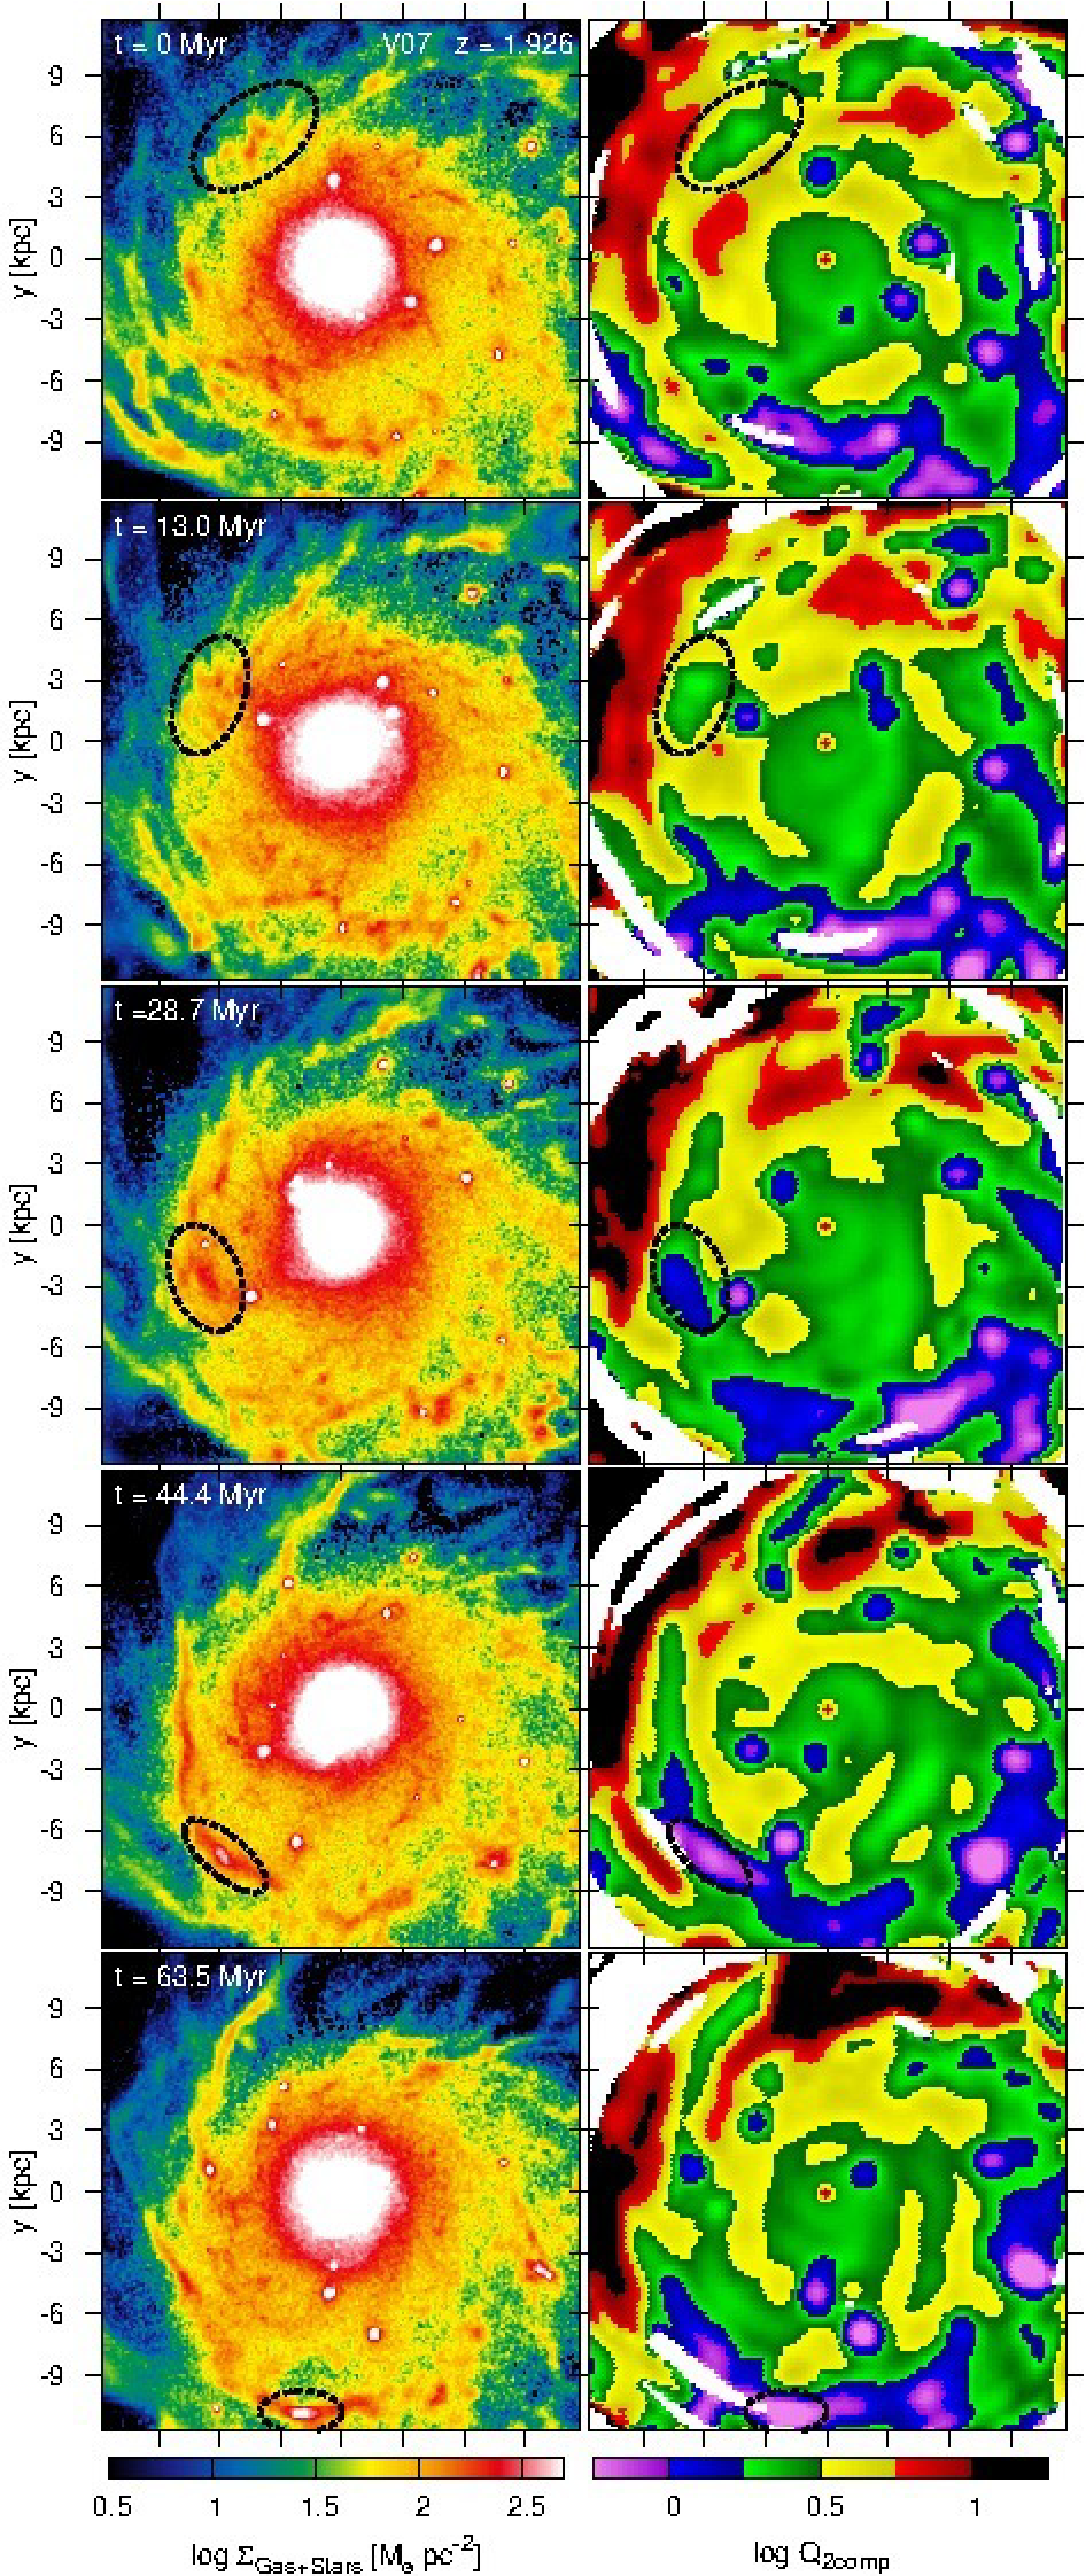
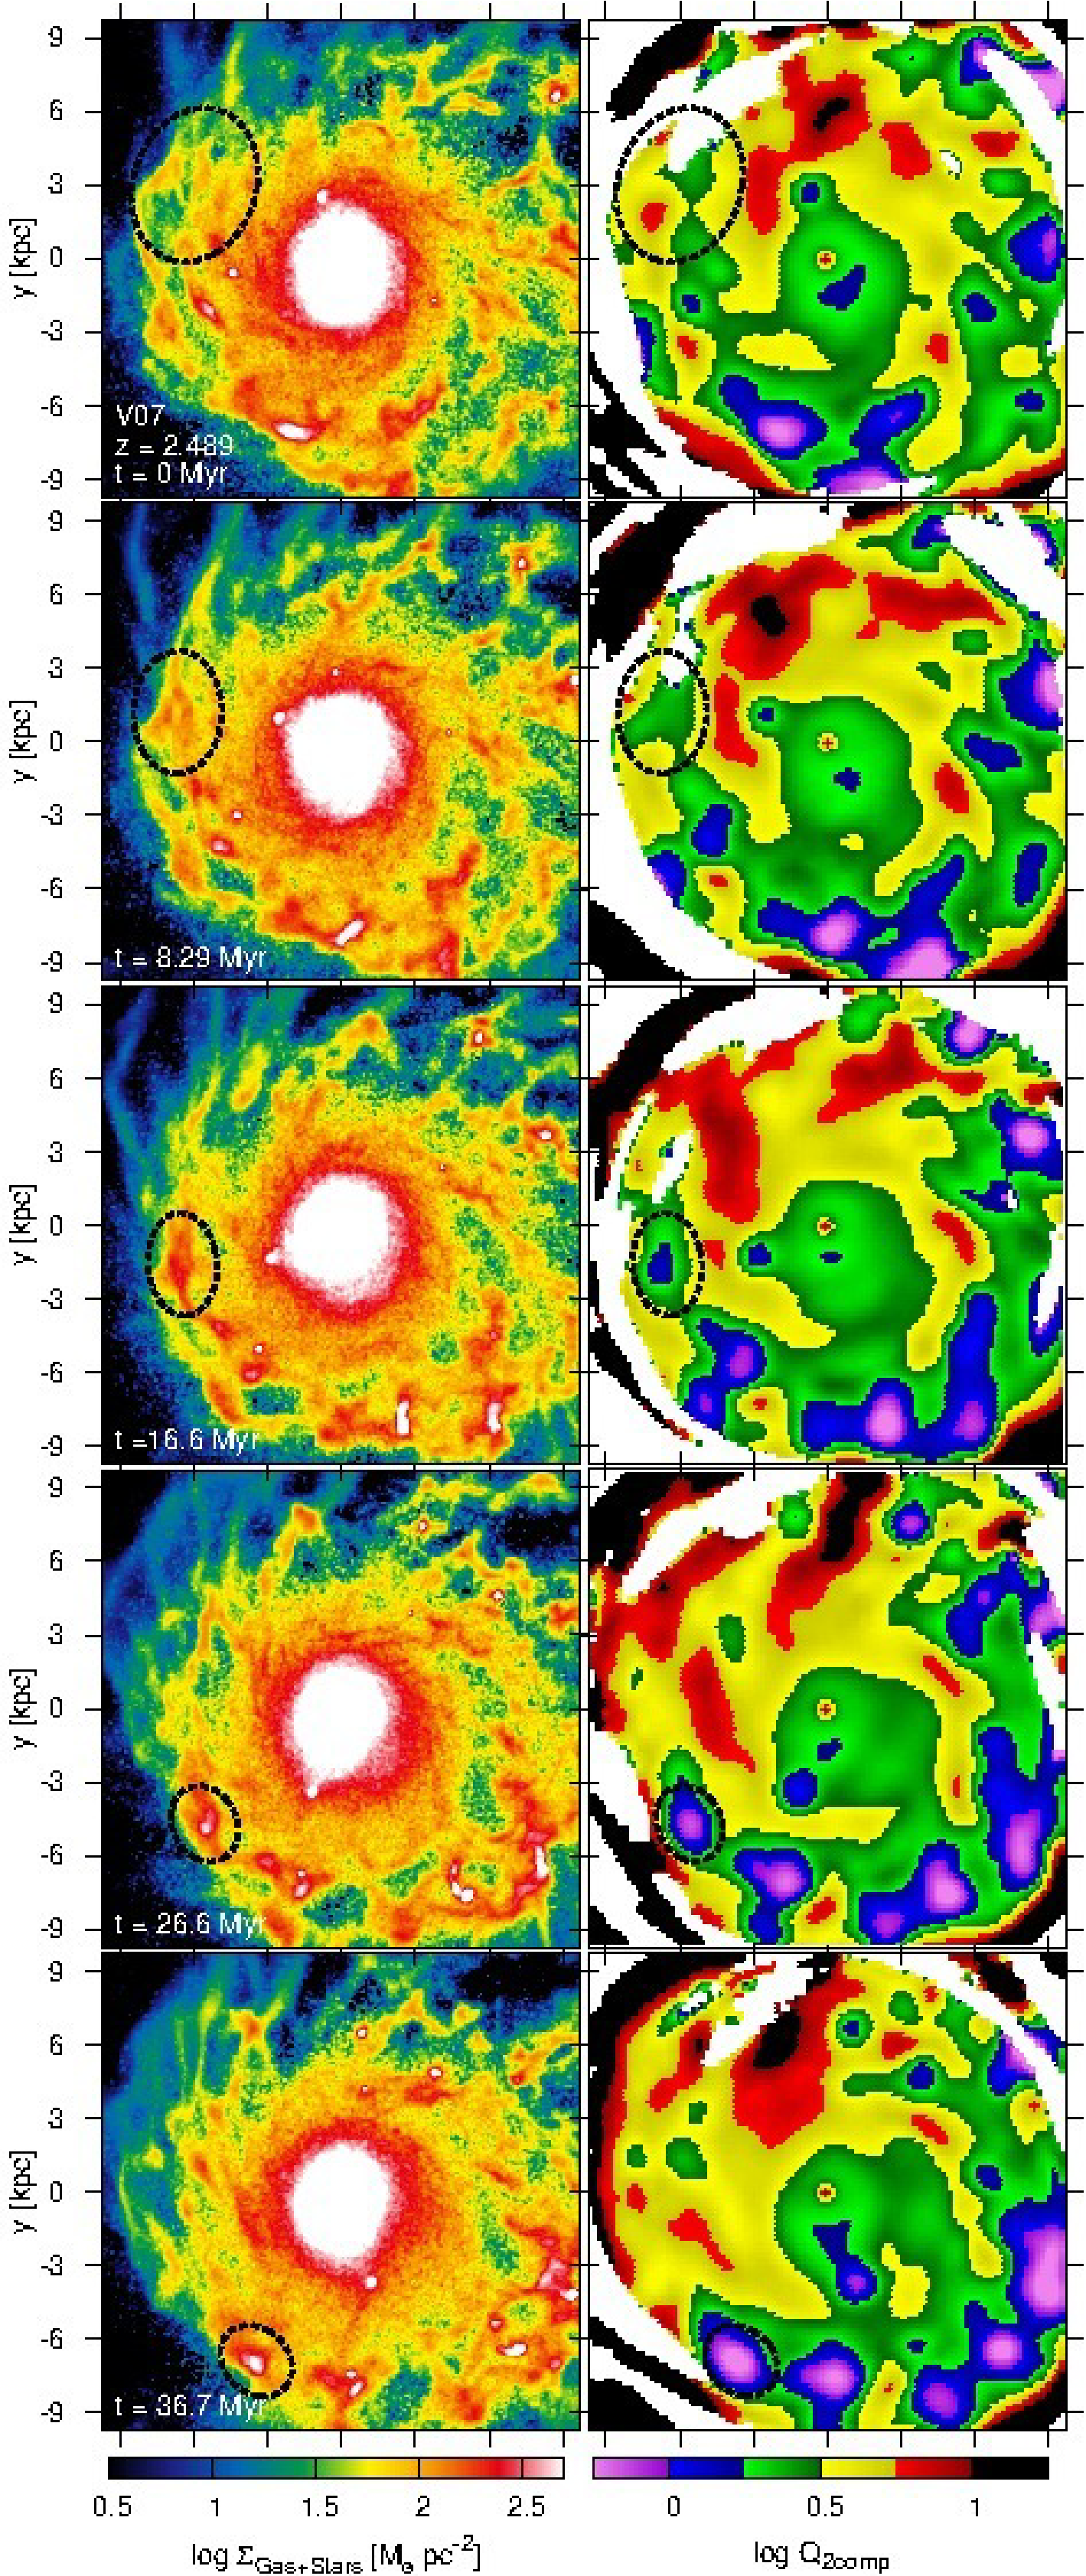
Replace Inoue16 Fig. 9 with Fig. 10 in turbulence project
Fig. 10 shows the same proto-clump formation event as the M25
compressive-fraction maps, connecting puzzle and resolution through
one event.

diff --git a/Turbulence_Decomposition/README.md b/Turbulence_Decomposition/README.md
@@ -96,8 +96,10 @@ galaxy simulation. From Mandelker et al. 2025, Fig. 4.*
 
 ![Proto-clump formation sequence](figures/protoclump_Q_sequence.png)
 *The original 2016 evidence: time sequence of a clump forming (dashed
-circles) in a region where the stability map (right column) says Q > 1.
-From Inoue et al. 2016, Fig. 9.*
+circles) in a region where the stability map (right column) says Q > 1 —
+this is the same clump-formation event shown through the
+compressive-turbulence lens in the maps above, closing the loop between
+the puzzle and its resolution. From Inoue et al. 2016, Fig. 10.*
 
 Downstream MATLAB post-processing of the decomposition outputs is in
 `analysis/` (`sol_over_comp.m` — the compressive-to-solenoidal ratio